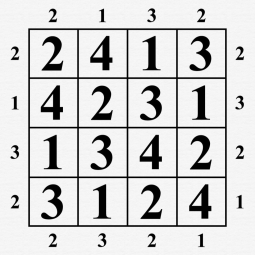
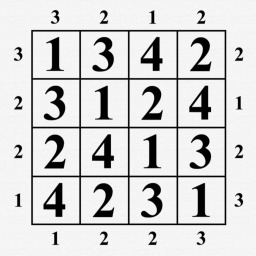
Update

Changed region(s): [[0.0275, 0.0275, 0.9608, 0.9882], [0.0275, 0.7412, 0.0824, 0.8235]]

diff --git a/README.md b/README.md
@@ -29,7 +29,7 @@ if mes is altered;
 ```
 cd ex00
 gcc *.c -o rush-01
-./rush-01 "2 1 3 2 2 3 2 1 2 1 3 2 2 3 2 1"
+./rush-01 "3 2 1 2 1 2 2 3 3 2 2 1 2 1 2 3"
 ```
 
 ## Expected
